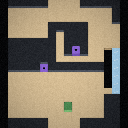
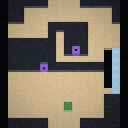
nice!

Changed region(s): [[0.0625, 0.0312, 0.1875, 0.1875]]

diff --git a/tests/weightless-push.test.js b/tests/weightless-push.test.js
@@ -354,6 +354,28 @@ asyncTests.push(
 
   assert.equal(transition?.nextLevelId, "level_BxA");
   assert.deepEqual([transition?.targetX, transition?.targetY], [0, 3]);
+  assert.equal(transition?.sourceType, "floor");
+}
+
+{
+  const edgePlayer = { type: "player", x: 7, y: 3, elevation: 1, removed: false };
+  const terrain = createTerrain(8, 8);
+  terrain[3][7] = { type: "wall" };
+  const app = createGameplayApp([edgePlayer], { terrain });
+  const transition = app.edgeTransitionForMove(1, 0);
+
+  assert.equal(transition?.nextLevelId, "level_BxA");
+  assert.deepEqual([transition?.targetX, transition?.targetY], [0, 3]);
+  assert.equal(transition?.sourceType, "wall");
+}
+
+{
+  const edgePlayer = { type: "player", x: 7, y: 3, elevation: 0, removed: false };
+  const terrain = createTerrain(8, 8);
+  terrain[3][7] = { type: "wall" };
+  const app = createGameplayApp([edgePlayer], { terrain });
+
+  assert.equal(app.edgeTransitionForMove(1, 0), null);
 }
 
 asyncTests.push(
@@ -388,6 +410,114 @@ asyncTests.push(
     assert.equal(app.currentLevelId, "level_BxA");
     assert.deepEqual([incomingPlayer.x, incomingPlayer.y], [0, 2]);
     assert.equal(app.moveHistory.at(-1)?.kind, "level-transition");
+  })()
+);
+
+asyncTests.push(
+  (async () => {
+    const edgePlayer = { type: "player", x: 7, y: 2, elevation: 0, removed: false };
+    const nextTerrain = createTerrain(8, 8);
+    nextTerrain[2][0] = { type: "wall" };
+    const app = createGameplayApp([edgePlayer], {
+      currentLevelId: "level_AxA",
+      loadLevelState: async (levelId) => ({
+        levelId,
+        levelLabel: levelId,
+        width: 8,
+        height: 8,
+        terrain: nextTerrain,
+        actors: []
+      })
+    });
+
+    const didTransition = await app.transitionToAdjacentLevel({
+      player: edgePlayer,
+      nextLevelId: "level_BxA",
+      sourceType: "floor",
+      dx: 1,
+      dy: 0,
+      targetX: 0,
+      targetY: 2
+    });
+
+    assert.equal(didTransition, false);
+    assert.equal(app.currentLevelId, "level_AxA");
+    assert.equal(app.moveHistory.length, 0);
+    assert.equal(app.isTransitioningLevel, false);
+  })()
+);
+
+asyncTests.push(
+  (async () => {
+    const edgePlayer = { type: "player", x: 7, y: 2, elevation: 1, removed: false };
+    const terrain = createTerrain(8, 8);
+    terrain[2][7] = { type: "wall" };
+    const nextTerrain = createTerrain(8, 8);
+    nextTerrain[2][0] = { type: "wall" };
+    const app = createGameplayApp([edgePlayer], {
+      currentLevelId: "level_AxA",
+      terrain,
+      loadLevelState: async (levelId) => ({
+        levelId,
+        levelLabel: levelId,
+        width: 8,
+        height: 8,
+        terrain: nextTerrain,
+        actors: []
+      })
+    });
+
+    const didTransition = await app.transitionToAdjacentLevel({
+      player: edgePlayer,
+      nextLevelId: "level_BxA",
+      sourceType: "wall",
+      dx: 1,
+      dy: 0,
+      targetX: 0,
+      targetY: 2
+    });
+    const incomingPlayer = app.state.actors.find((actor) => app.isPlayerActor(actor));
+
+    assert.equal(didTransition, true);
+    assert.equal(app.currentLevelId, "level_BxA");
+    assert.deepEqual([incomingPlayer.x, incomingPlayer.y], [0, 2]);
+    assert.equal(incomingPlayer.elevation, 1);
+  })()
+);
+
+asyncTests.push(
+  (async () => {
+    const edgePlayer = { type: "player", x: 7, y: 2, elevation: 1, removed: false };
+    const terrain = createTerrain(8, 8);
+    terrain[2][7] = { type: "wall" };
+    const nextTerrain = createTerrain(8, 8);
+    const app = createGameplayApp([edgePlayer], {
+      currentLevelId: "level_AxA",
+      terrain,
+      loadLevelState: async (levelId) => ({
+        levelId,
+        levelLabel: levelId,
+        width: 8,
+        height: 8,
+        terrain: nextTerrain,
+        actors: []
+      })
+    });
+
+    const didTransition = await app.transitionToAdjacentLevel({
+      player: edgePlayer,
+      nextLevelId: "level_BxA",
+      sourceType: "wall",
+      dx: 1,
+      dy: 0,
+      targetX: 0,
+      targetY: 2
+    });
+
+    assert.equal(didTransition, false);
+    assert.equal(app.currentLevelId, "level_AxA");
+    assert.equal(app.moveHistory.length, 0);
+    assert.equal(app.isTransitioningLevel, false);
   })()
 );
 

diff --git a/public/play-world-transitions.js b/public/play-world-transitions.js
@@ -84,6 +84,22 @@
       return players.find((actor) => actor.type === preferredType) || players[0];
     }
 
+    function isAllowedEdgeTransition(sourceType, targetType) {
+      if (sourceType === "floor") {
+        return targetType === "floor" || targetType === "hole";
+      }
+
+      if (sourceType === "wall") {
+        return targetType === "wall";
+      }
+
+      return false;
+    }
+
+    function edgeTransitionElevationForTarget(targetType) {
+      return targetType === "wall" ? 1 : 0;
+    }
+
     function rememberCurrentLevelEntryState() {
       app.initialPositions = cloneActorPositions();
       app.initialTerrain = cloneTerrainState(state.terrain);
@@ -199,8 +215,15 @@
       }
 
       const player = players[0];
+      const sourceCell = terrainAt(player.x, player.y);
+      const sourceType = sourceCell?.type || "empty";
+      const sourceElevation = actorElevation(player);
 
-      if (actorElevation(player) !== 0 || terrainAt(player.x, player.y).type !== "floor") {
+      if (
+        (sourceType === "floor" && sourceElevation !== 0) ||
+        (sourceType === "wall" && sourceElevation !== 1) ||
+        (sourceType !== "floor" && sourceType !== "wall")
+      ) {
         return null;
       }
 
@@ -223,6 +246,7 @@
       return {
         player,
         nextLevelId,
+        sourceType,
         dx,
         dy,
         targetX: dx < 0 ? state.width - 1 : dx > 0 ? 0 : player.x,
@@ -256,11 +280,21 @@
         const nextLevelState = await loadLevelState(transition.nextLevelId);
         const levelStartPlayer = playerStartForLevelState(nextLevelState, transition.player.type);
         const reviveStartPlayer = levelStartPlayer ? { ...levelStartPlayer } : null;
-        const entersHole = terrainCellInLevelState(
+        const sourceType = transition.sourceType || terrainAt(transition.player.x, transition.player.y)?.type || "empty";
+        const targetCell = terrainCellInLevelState(
           nextLevelState,
           transition.targetX,
           transition.targetY
-        )?.type === "hole";
+        );
+        const targetType = targetCell?.type || "empty";
+
+        if (!isAllowedEdgeTransition(sourceType, targetType)) {
+          app.isTransitioningLevel = false;
+          return false;
+        }
+
+        const entersHole = targetType === "hole";
+        const targetElevation = edgeTransitionElevationForTarget(targetType);
         const transferredPlayer = {
           type: transition.player.type,
           groupId: transition.player.groupId ?? null,
@@ -269,7 +303,7 @@
           x: transition.targetX,
           y: transition.targetY,
           removed: false,
-          elevation: 0
+          elevation: targetElevation
         };
 
         nextLevelState.actors = [